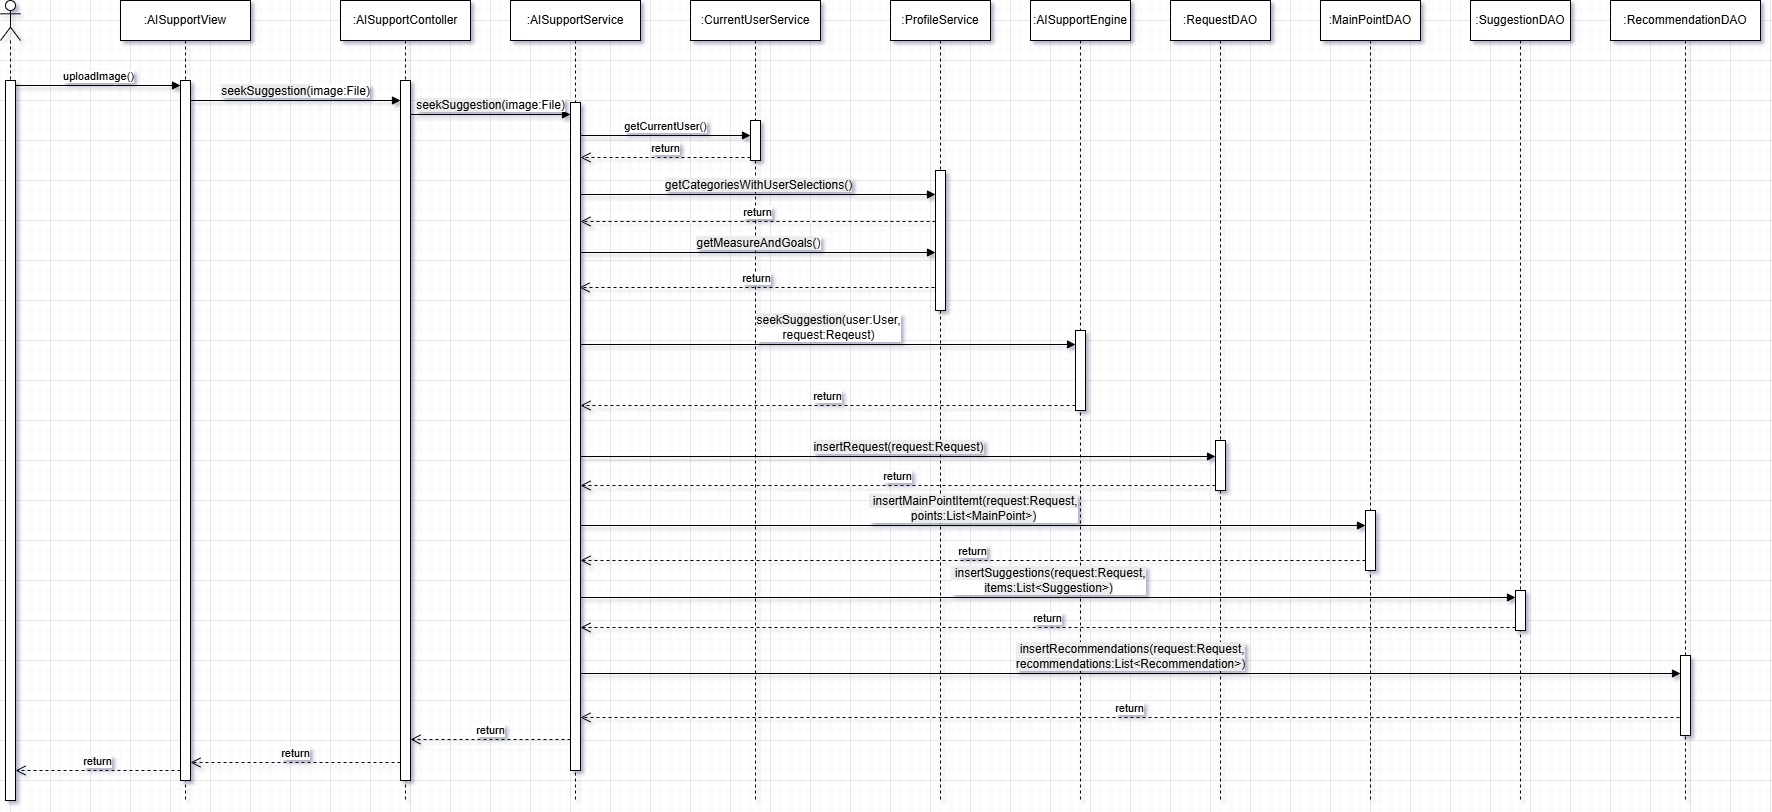
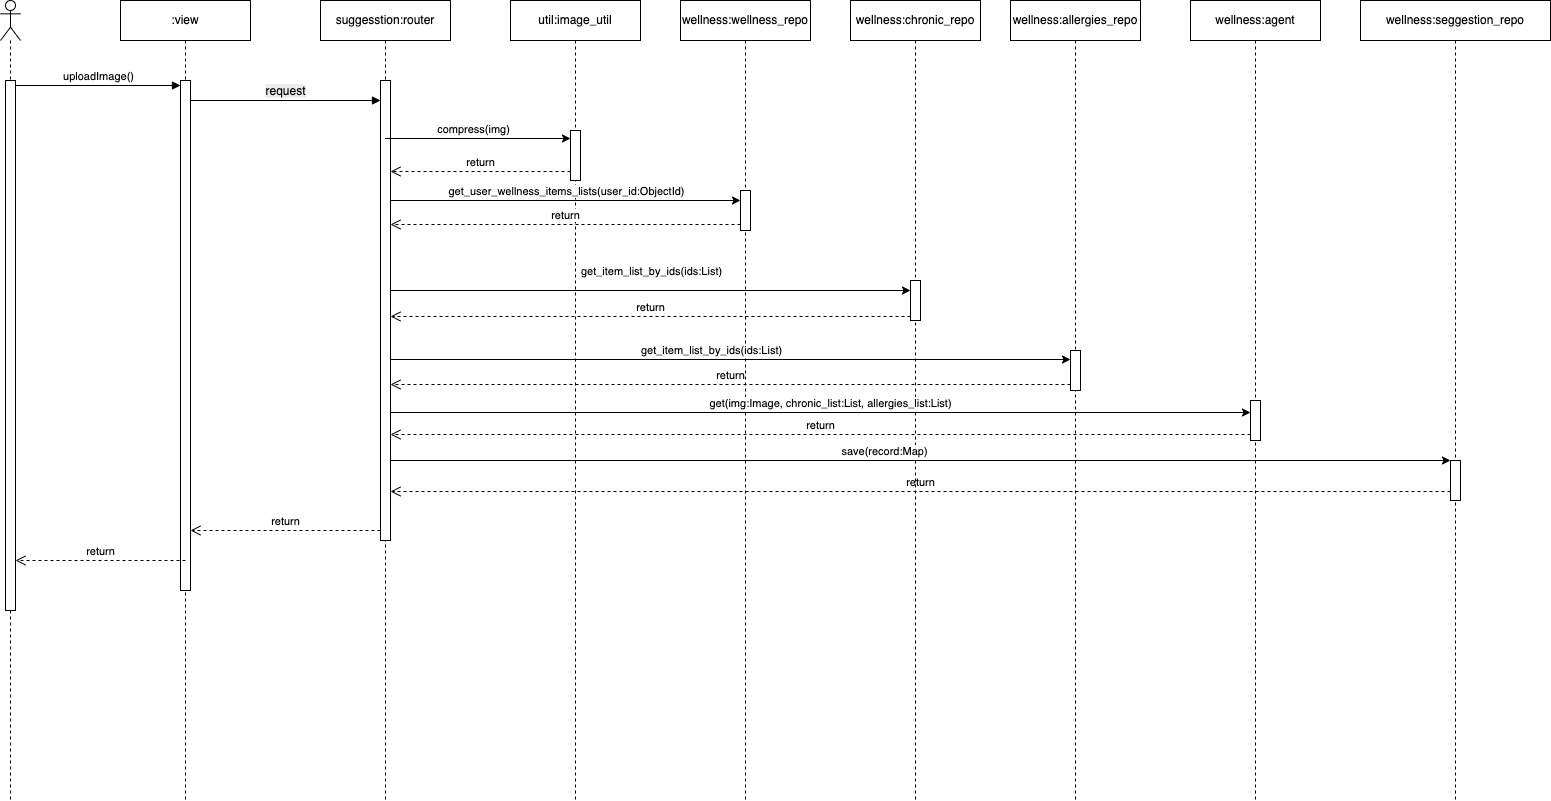
modify images

diff --git a/NutriPilot.md b/NutriPilot.md
@@ -47,7 +47,7 @@ Before implementation, I designed key system workflows to ensure security, scala
 
 ### 1. Reset Password – Secure Identity Recovery
 
-![Reset Password Flow](./images/nutri_pilot/sequences/usermanagement/Reset-Password.jpg)
+![Reset Password Flow](./images/nutri_pilot/sequences/usermanagement/Reset-Password.png)
 
 **Why this matters**
 
